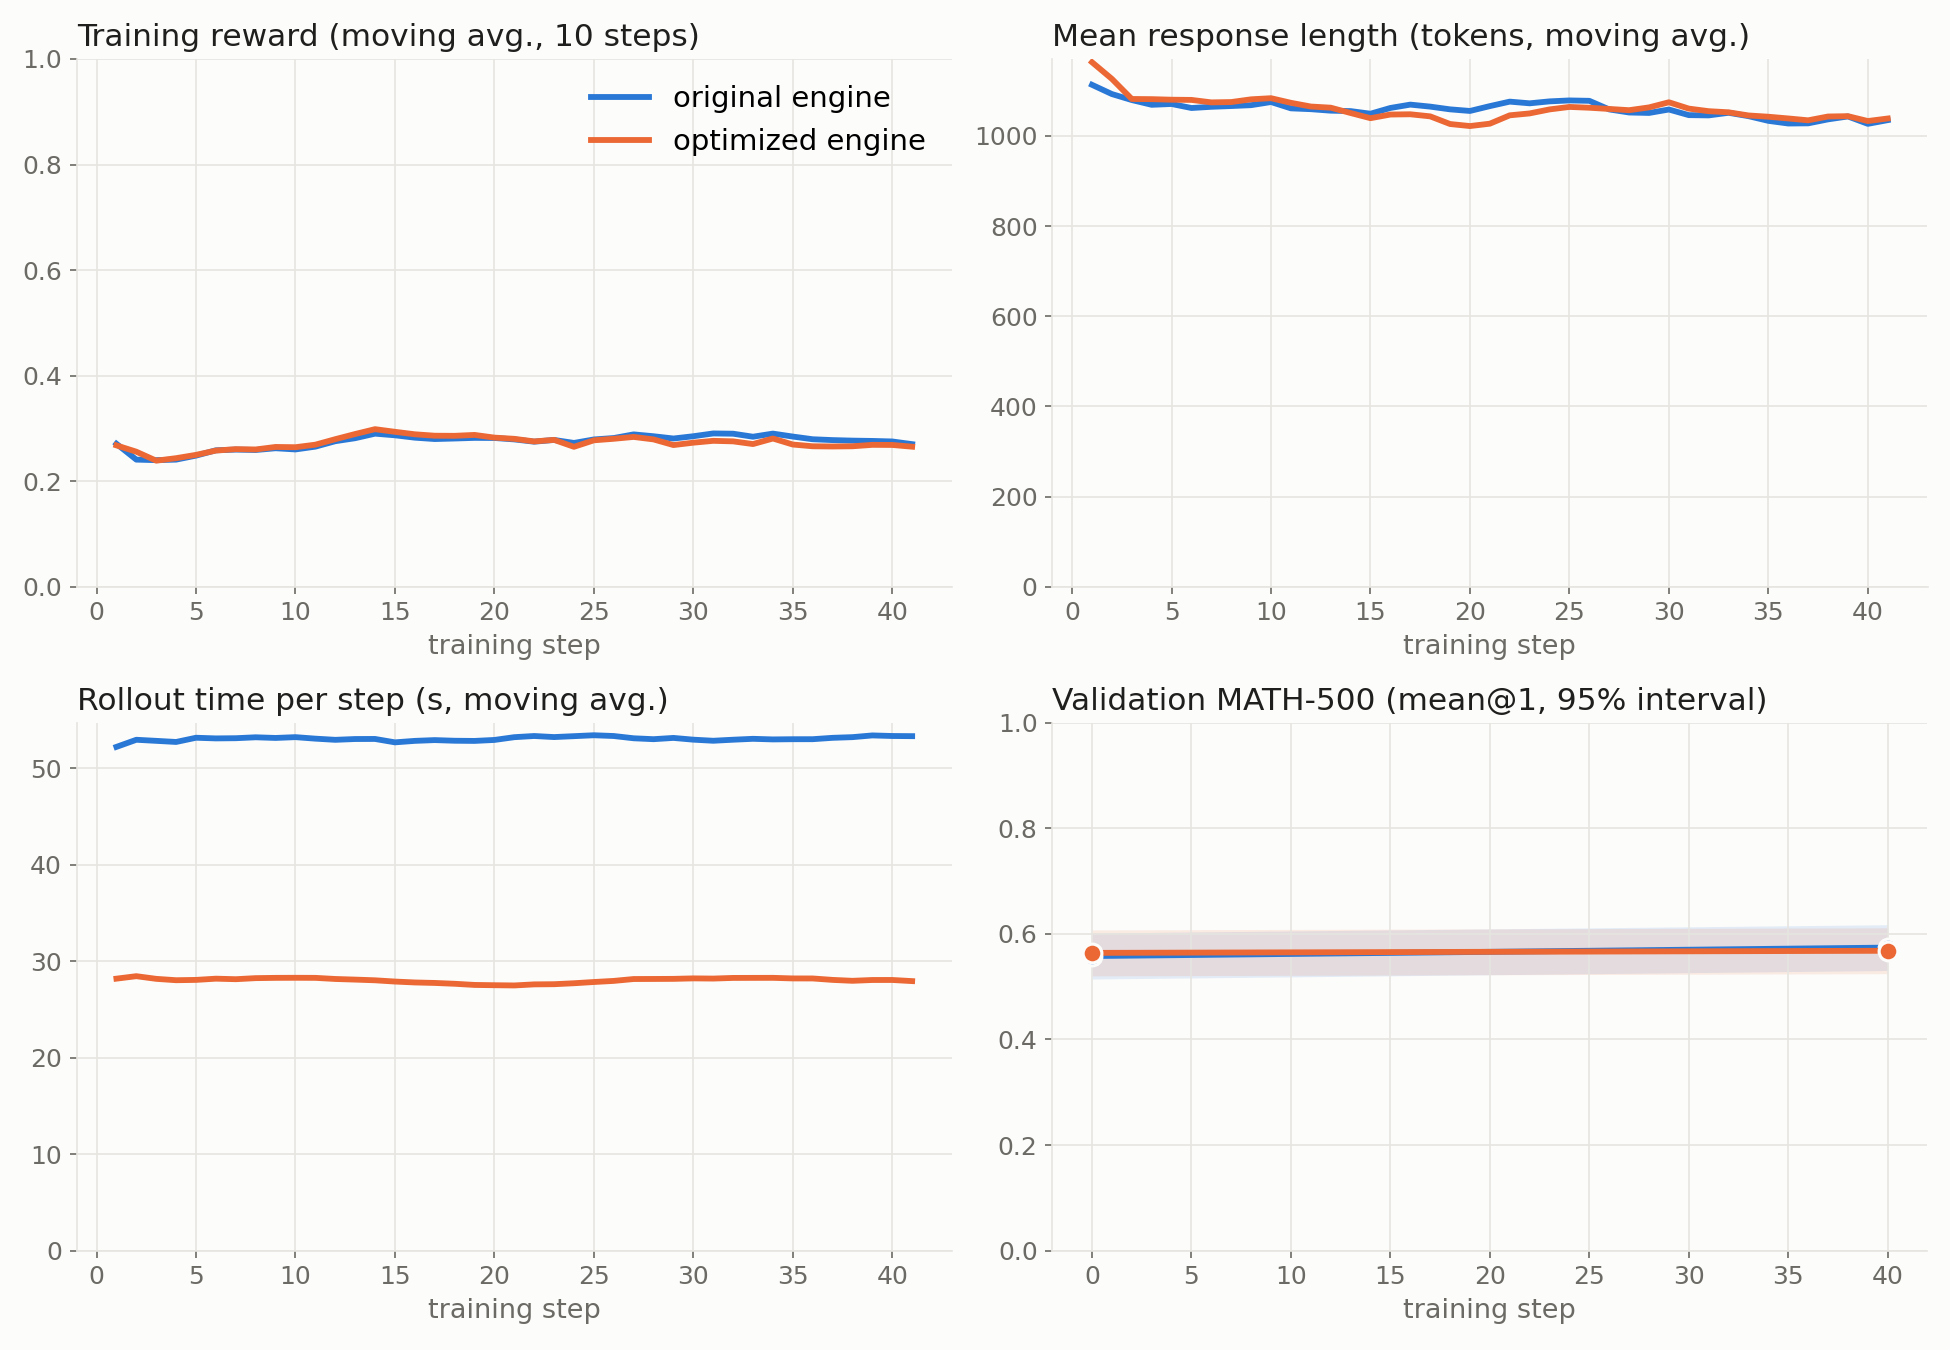
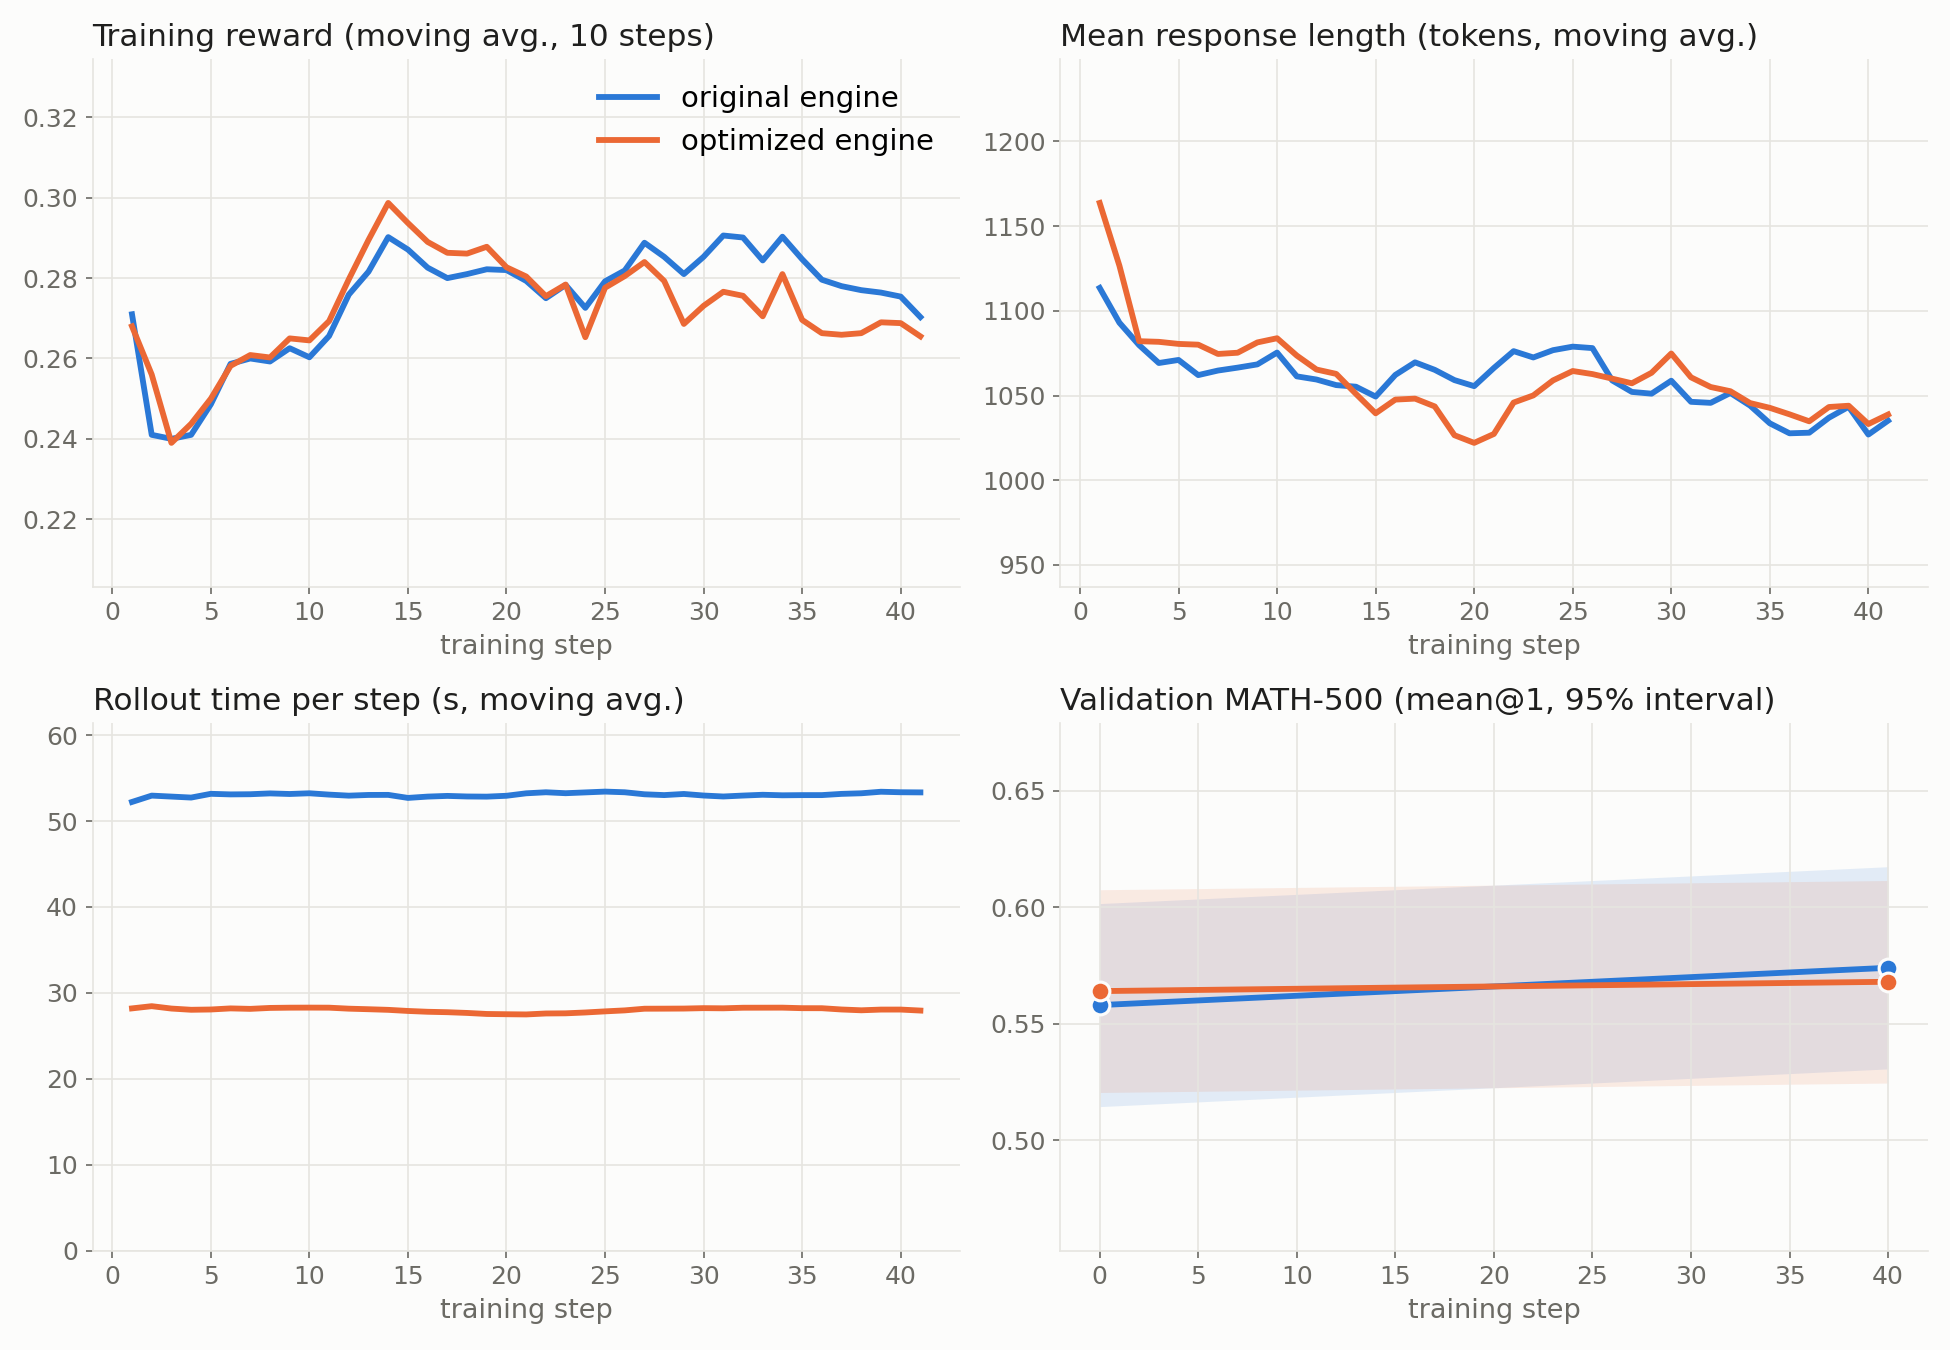
training/: zoom y-axes to the data range (rollout time kept from 0)

diff --git a/Soft-Thinking+noise+loss-main/benchmarks/soft_thinking_overhead/training/compare_training.py b/Soft-Thinking+noise+loss-main/benchmarks/soft_thinking_overhead/training/compare_training.py
@@ -104,12 +104,15 @@ def main():
     fig.patch.set_facecolor("#fcfcfb")
     for ax, (title, key, smooth) in zip(axes, panels):
         ax.set_facecolor("#fcfcfb")
+        shown = []  # every plotted value (and interval edge) of both runs, for the y-range
         for steps, name, color in ((A, a.a_name, C_A), (B, a.b_name, C_B)):
             xs, ys = series(steps, key, last)
             if not xs:
                 continue
             if smooth:
-                ax.plot(xs, moving_average(ys, a.window), color=color, lw=2.8, label=name)
+                ys = moving_average(ys, a.window)
+                ax.plot(xs, ys, color=color, lw=2.8, label=name)
+                shown += ys
             else:
                 # 95% binomial interval of a mean@1 accuracy over the benchmark's problems
                 n_problems = VAL_SIZES.get(key)
@@ -117,13 +120,18 @@ def main():
                     half = [1.96 * (max(y * (1 - y), 1e-9) / n_problems) ** 0.5 for y in ys]
                     ax.fill_between(xs, [y - h for y, h in zip(ys, half)], [y + h for y, h in zip(ys, half)],
                                     color=color, alpha=0.12, lw=0)
+                    shown += [y - h for y, h in zip(ys, half)] + [y + h for y, h in zip(ys, half)]
+                shown += ys
                 ax.plot(xs, ys, color=color, lw=2.8, marker="o", ms=9, label=name,
                         markeredgecolor="#fcfcfb", markeredgewidth=1.5)
-        # full-range axes: rewards and accuracies live in [0, 1]; lengths start at 0
-        if key.startswith("val-core") or key == TRAIN_KEYS["reward"]:
-            ax.set_ylim(0, 1)
-        else:
-            ax.set_ylim(bottom=0)
+        # y-range: both runs on one shared axis, zoomed to the data with equal padding above and below.
+        # The rollout time starts at 0 so that the two levels can be compared as a ratio.
+        if key == TRAIN_KEYS["gen_s"]:
+            ax.set_ylim(0, max(shown) * 1.15)
+        elif shown:
+            lo, hi = min(shown), max(shown)
+            pad = max(hi - lo, 1e-3) * 0.6
+            ax.set_ylim(lo - pad, hi + pad)
         ax.set_title(title, fontsize=15, color=INK, loc="left")
         ax.set_xlabel("training step", fontsize=13, color=MUTED)
         ax.grid(True, color=GRID, lw=0.8)
